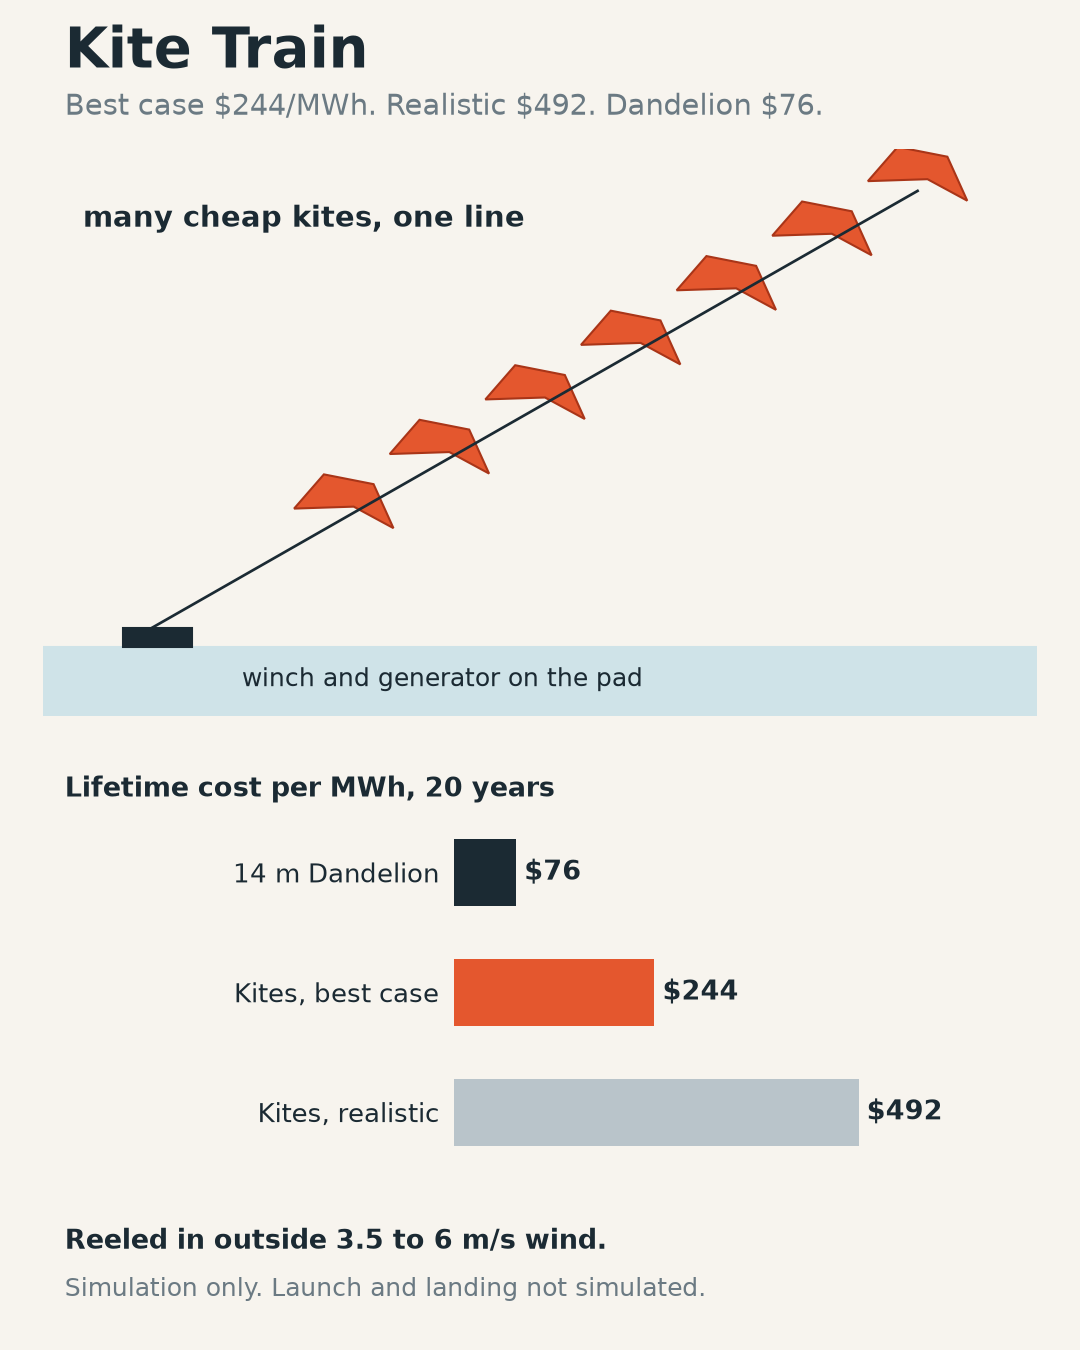
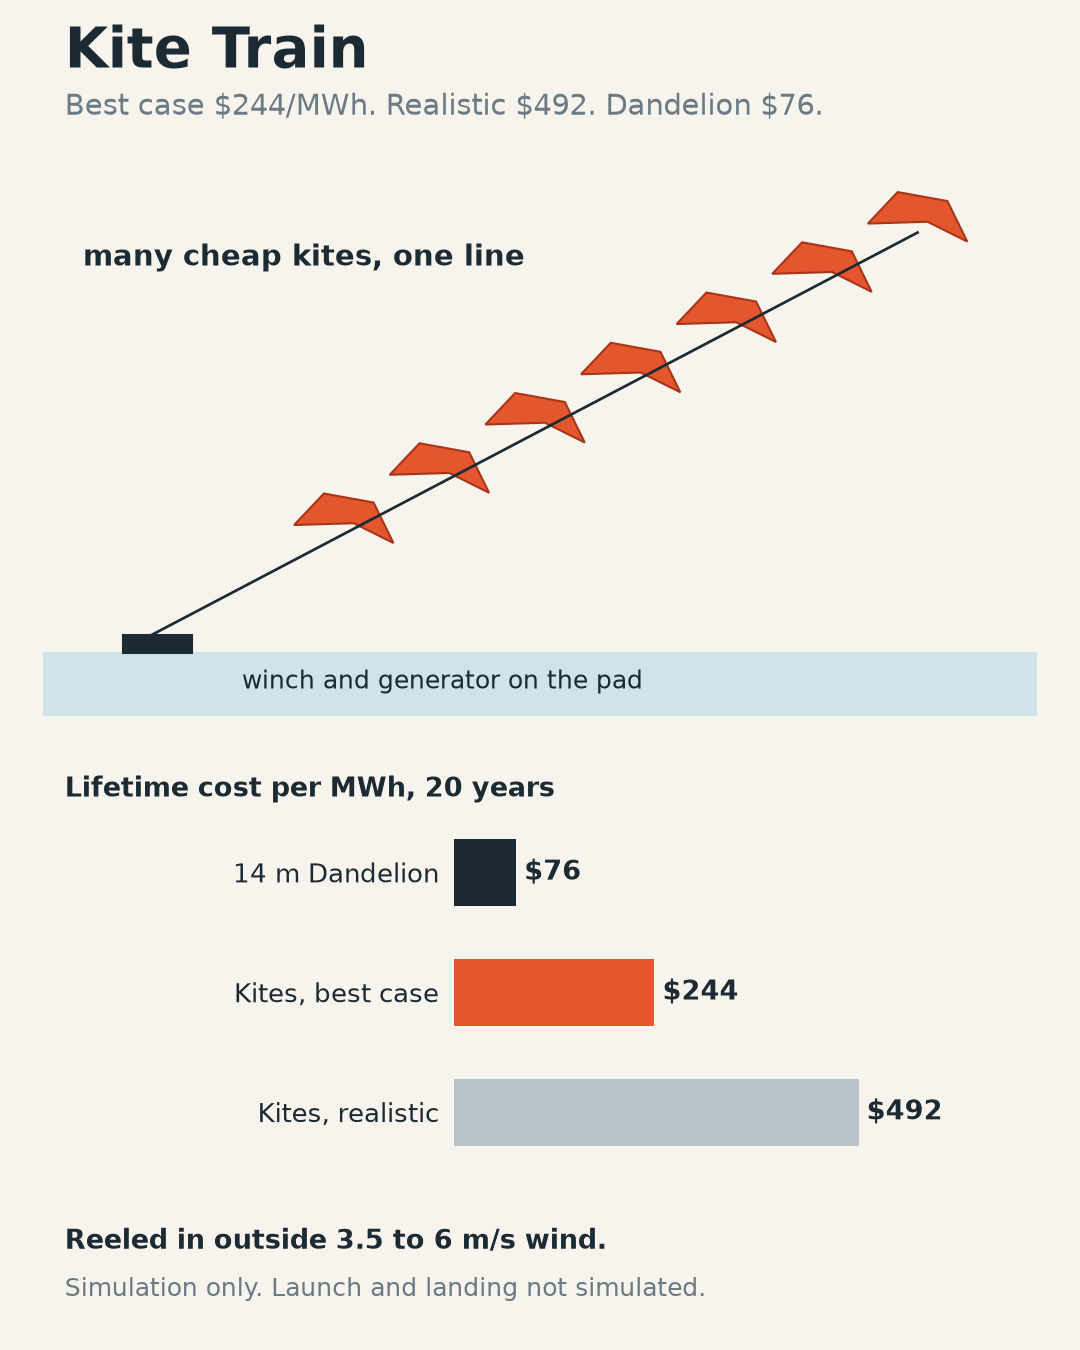
Fix clipped kite on train summary card

diff --git a/models/kite_train_card.py b/models/kite_train_card.py
@@ -7,7 +7,7 @@ R = [r for r in json.load(open("out/kite_window.json")) if r["wind"] == "gusty"]
 INK, MUTE, ACC, GR, BG = "#1b2a33", "#6b7a83", "#e4572e", "#b9c4ca", "#f7f4ee"
 f = plt.figure(figsize=(7.2, 9), facecolor=BG); win = a_["usd"] < 76
 f.text(.06, .95, "Kite Train", fontsize=27, weight="bold", color=INK); f.text(.06, .915, rf"Best case \${a_['usd']:.0f}/MWh. Realistic \${b_['usd']:.0f}. Dandelion \$76.", fontsize=14, color=MUTE)
-a = f.add_axes([.04, .47, .92, .42]); a.set_xlim(0, 100); a.set_ylim(0, 58); a.axis("off"); a.add_patch(Rectangle((0, 0), 100, 7, color="#cfe3e8")); a.add_patch(Rectangle((8, 7), 7, 2, color=INK)); xs = np.linspace(11, 88, 9); ys = 9 + (xs - 11) * .58; a.plot([11, 88], [9, ys[-1]], color=INK, lw=1.3)
+a = f.add_axes([.04, .47, .92, .42]); a.set_xlim(0, 100); a.set_ylim(0, 63); a.axis("off"); a.add_patch(Rectangle((0, 0), 100, 7, color="#cfe3e8")); a.add_patch(Rectangle((8, 7), 7, 2, color=INK)); xs = np.linspace(11, 88, 9); ys = 9 + (xs - 11) * .58; a.plot([11, 88], [9, ys[-1]], color=INK, lw=1.3)
 for x, y in zip(xs[2:], ys[2:]): a.add_patch(Polygon([(x - 5, y + 1), (x - 2, y + 4.5), (x + 3, y + 3.5), (x + 5, y - 1), (x + 1, y + 1.2)], color=ACC, ec="#a93518"))
 a.text(20, 3, "winch and generator on the pad", fontsize=12, color=INK); a.text(4, 50, "many cheap kites, one line", fontsize=14, weight="bold", color=INK)
 c = f.add_axes([.42, .14, .48, .25]); N = ["14 m Dandelion", "Kites, best case", "Kites, realistic"]; V = [76, round(a_["usd"]), round(b_["usd"])]; c.barh(N[::-1], V[::-1], color=[GR, ACC, INK], height=.56); c.set_facecolor(BG); c.set_xlim(0, max(V) * 1.28); c.set_xticks([])
